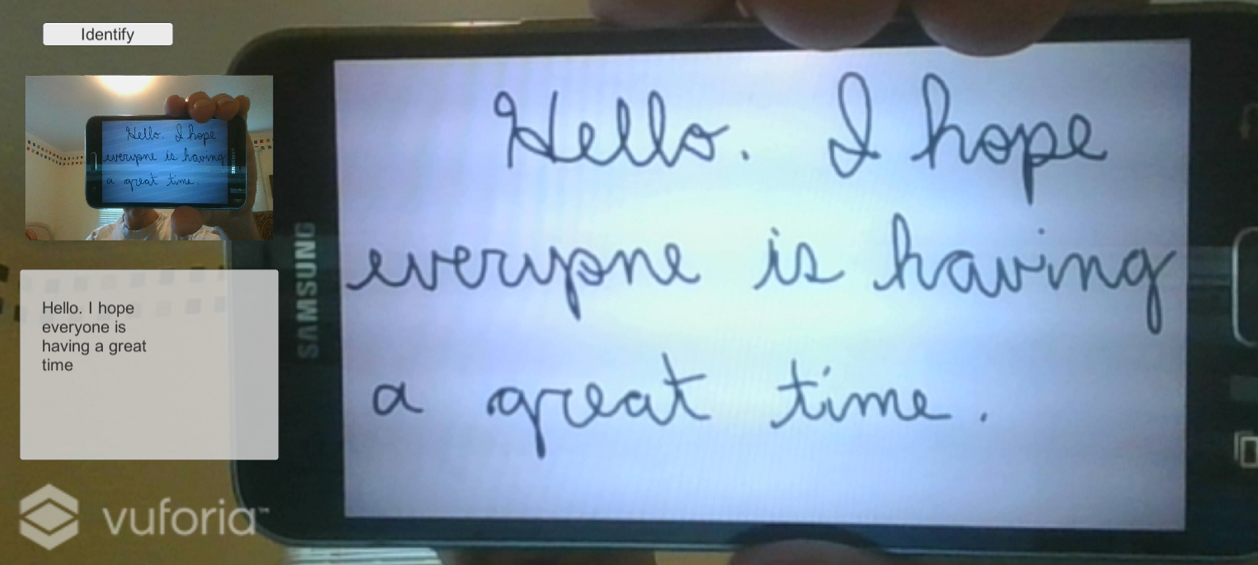
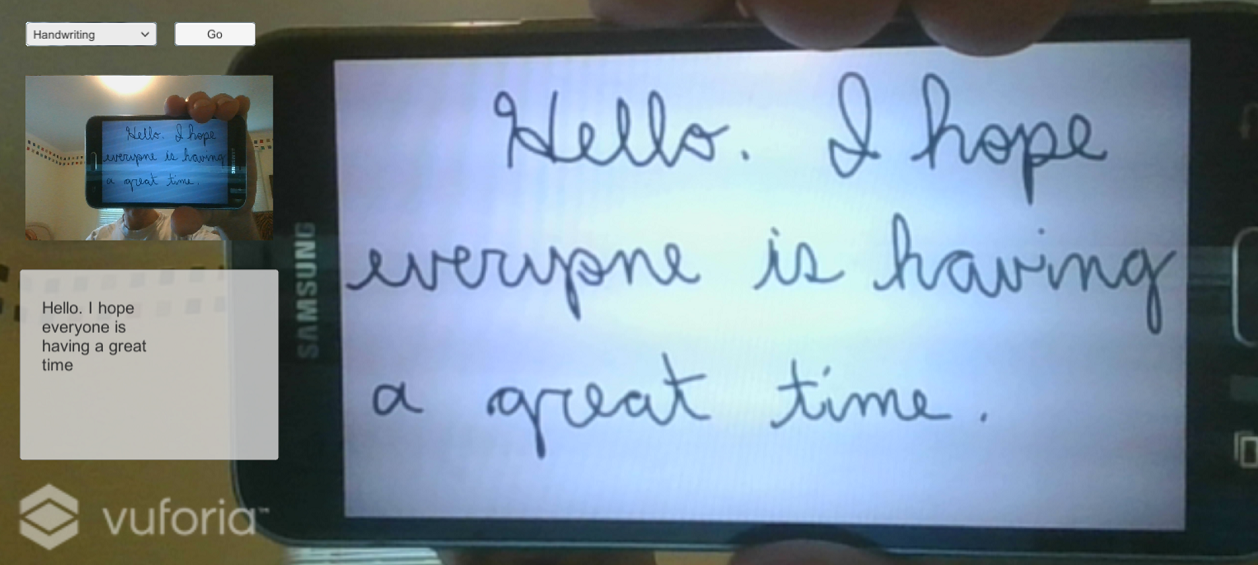
add dropdown

Changed region(s): [[0.0, 0.0301, 0.217, 0.0903]]

diff --git a/06-Handwriting/README.md b/06-Handwriting/README.md
@@ -8,10 +8,19 @@ This demo builds upon the previous demo by showing how to call the Vision API on
 
 Follow these instructions to deploy the application when using the emulator:
 
+1. Add option
+
+   - Select **ddAction**
+   - Add a **Handwriting** option
+
+   ![add option](setup/add-option-ocr-labelled.png)
+
 1. Add scripts
+
    - Copy **`<working-dir>`\reality-augmentation-using-cognitive-services\06-Handwriting\scripts\HandwritingAPIResults.cs** to **`<working-dir>`\HoloWorld\Assets\Scripts**
 
 1. Edit scripts
+
    - Edit **`<working-dir>`\HoloWorld\Assets\Scripts\VisionAPIUtils.cs** by adding a new function called **MakeHandwritingRequest** at the bottom of the VisionAPIUtils class:
    ```
     public static IEnumerator MakeHandwritingRequest(byte[] bytes, string textComponent, Type type)
@@ -53,19 +62,20 @@ Follow these instructions to deploy the application when using the emulator:
 		}
     }
    ```
-   - Edit **`<working-dir>`\HoloWorld\Assets\Scripts\SetImageLabels.cs** by commenting out the call to **MakeOCRRequest** and adding a new line below it that calls **MakeHandwritingRequest** as follows:
+   - Edit **`<working-dir>`\HoloWorld\assets\Scripts\SetImageLabels.cs** by adding a new case statement that calls **MakeHandwritingRequest** as follows:
    ```
-   //StartCoroutine(VisionAPIUtils.MakeOCRRequest(bytes, "txtImageInfo", typeof(Text)));
-   StartCoroutine(VisionAPIUtils.MakeHandwritingRequest(bytes, "txtImageInfo", typeof(Text)));
+	case 2: // Handwriting
+		StartCoroutine(VisionAPIUtils.MakeHandwritingRequest(bytes, "txtImageInfo", typeof(Text)));
+		break;
    ```
    - Menu **File** > **Save All**
 
    - From the Unity Editor
    - Menu **File** > **Save Scenes**
-   - Menu **File** > **Save Project**
+   - Menu **File** > **Save Project** 
 
 ## Run the demo
 
   ![play](setup/play-labelled-resized-66.png)
 
-  - Click **Run**. If you hold some handwritten text in front of your computer's camera and click the **Identify** button, you will see the recognized text extracted from the image. As an example, you can use a printout or a phone capture of the text image found at **`<working-dir>`\reality-augmentation-using-cognitive-services\07-Handwriting\images\cursive.png**.
+  - Click **Run**. If you hold some handwritten text in front of your computer's, camera select **Handwriting**, and click the **Go** button, you will see the recognized text extracted from the image. As an example, you can use a printout or a phone capture of the text image found at **`<working-dir>`\reality-augmentation-using-cognitive-services\07-Handwriting\images\cursive.png**.
